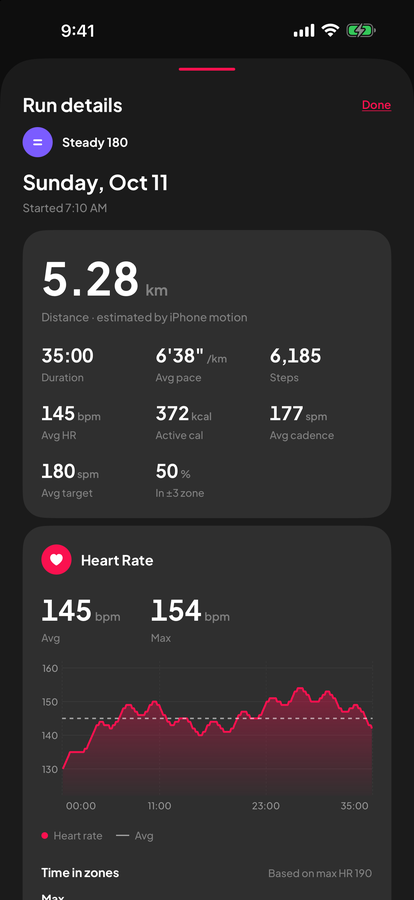
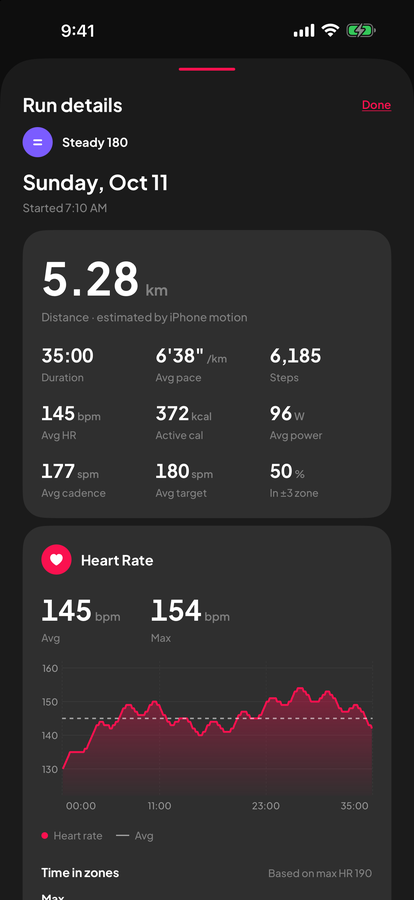
content(runpop): 새 화면 이미지, 플랜 대신 지도

diff --git a/src/appDetails.ts b/src/appDetails.ts
@@ -89,7 +89,7 @@ const ALL_APP_DETAILS: AppDetail[] = [
         ],
       },
     ],
-    shots: ["/apps/runpop/running.png", "/apps/runpop/plan.png", "/apps/runpop/detail.png", "/apps/runpop/watch.png"],
+    shots: ["/apps/runpop/running.png", "/apps/runpop/detail.png", "/apps/runpop/map.png", "/apps/runpop/watch.png"],
   },
   {
     slug: "ttokuoka",
